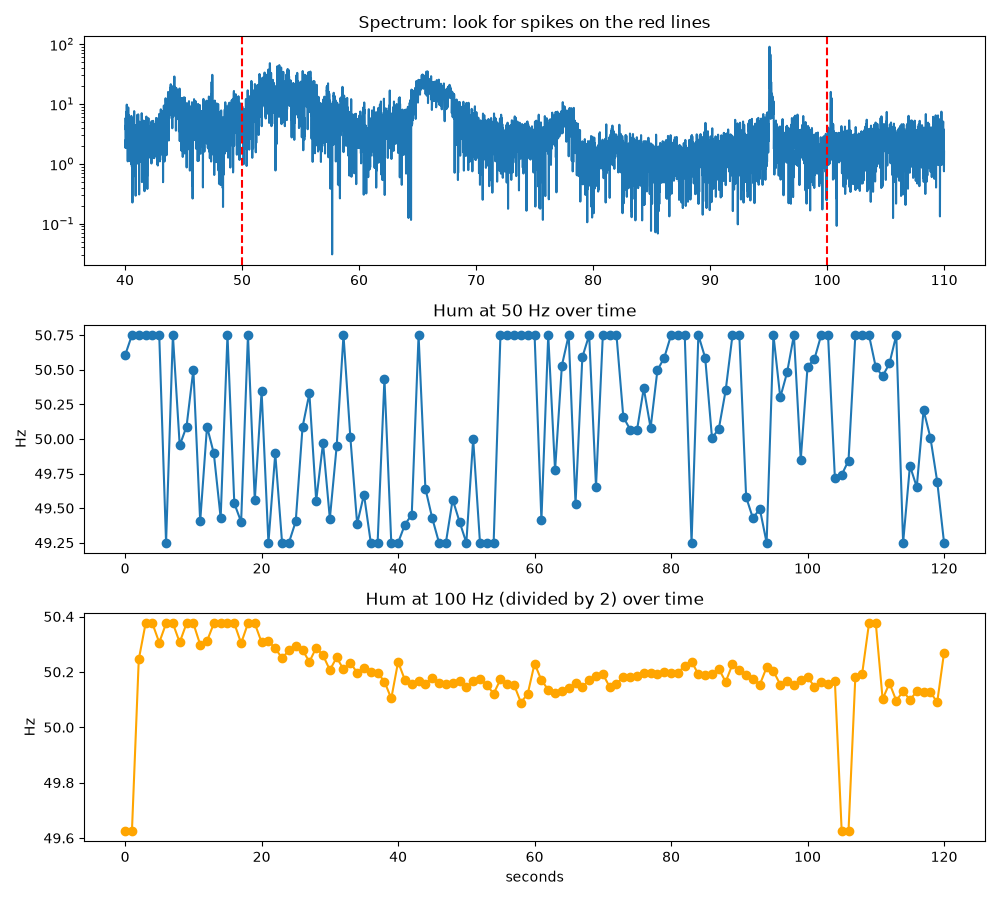
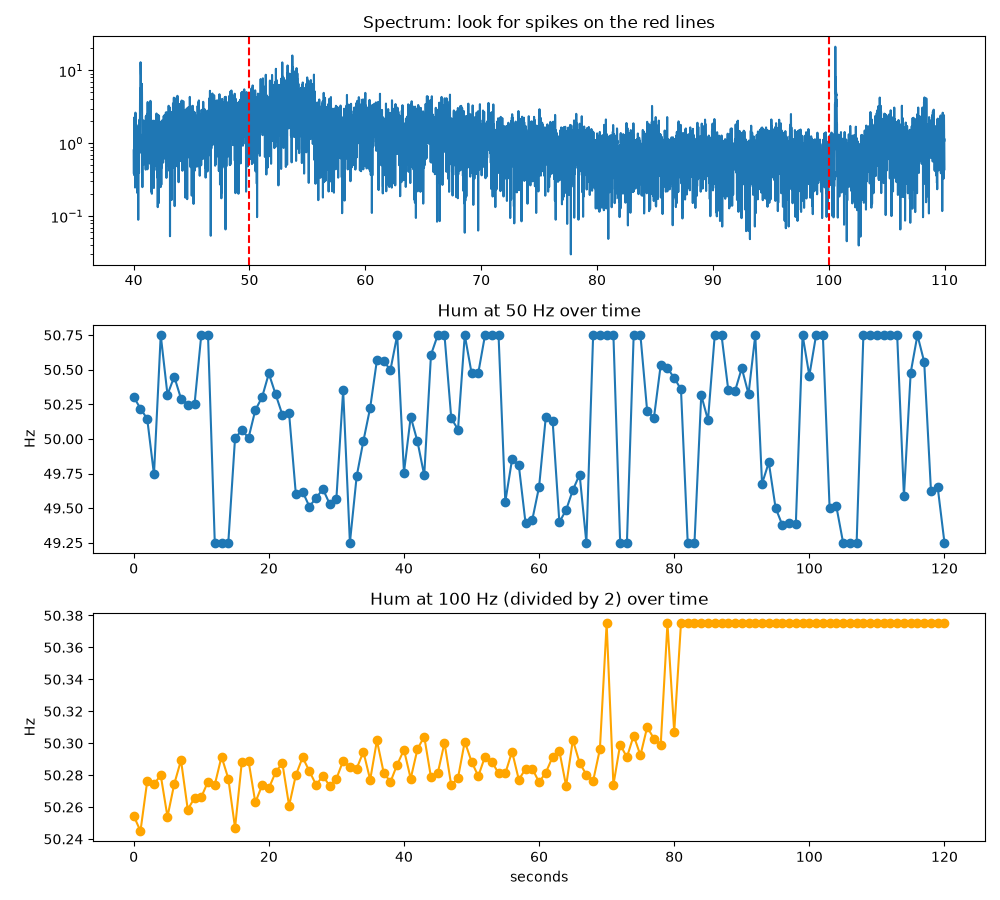
Rematch setup: record 5 min, add Day 2 comparison graph

diff --git a/hum_test.py b/hum_test.py
@@ -8,7 +8,7 @@ from scipy.signal import stft
 import matplotlib.pyplot as plt
 
 FS = 8000        # samples per second (plenty for a 50 Hz hum)
-SECONDS = 120     # how long to record
+SECONDS = 300     # how long to record
 
 # ---------- 1. RECORD ----------
 print(f"Recording {SECONDS} seconds... keep the laptop PLUGGED IN and the room quiet")
